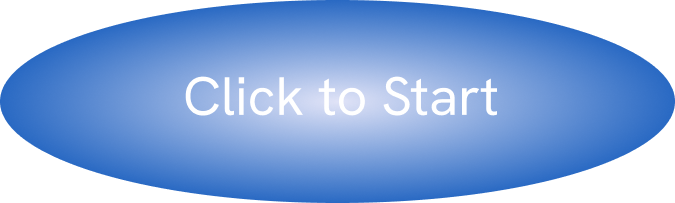
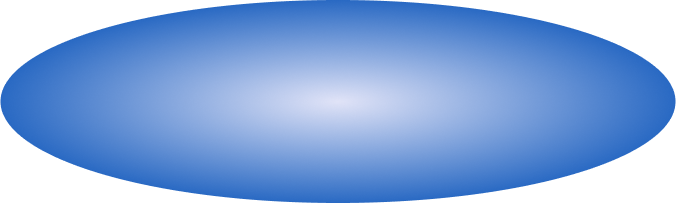
[fix] LoginScreen 화면 디자인 수정

Changed region(s): [[0.28, 0.3547, 0.7467, 0.5911], [0.9956, 0.4138, 1.0, 0.5616], [0.2489, 0.4433, 0.28, 0.5025]]

diff --git a/ui/LoginScreen.java b/ui/LoginScreen.java
@@ -12,6 +12,11 @@ public class LoginScreen extends JPanel {
 
     private MainFrame mainFrame;
     private BufferedImage backgroundImage;
+    private BufferedImage inputbackgroundImage;
+    private BufferedImage smallTitleImage;
+    private BufferedImage idinputImage;
+    private BufferedImage passwordinputImgae;
+    private BufferedImage nextbuttonImage;
 
     public LoginScreen(MainFrame mainFrame) {
 
@@ -22,21 +27,26 @@ public class LoginScreen extends JPanel {
 
         // 배경 이미지 로드
         try {
-            backgroundImage = ImageIO.read(getClass().getResource("/images/Login_n.png"));  // 상대 경로로 수정
+            backgroundImage = ImageIO.read(getClass().getResource("/images/Background.png"));  // 상대 경로로 수정
+            inputbackgroundImage = ImageIO.read(getClass().getResource("/images/Input_Background.png"));
+            smallTitleImage = ImageIO.read(getClass().getResource("/images/Small_Title.png"));
+            idinputImage = ImageIO.read(getClass().getResource("/images/Input.png"));
+            passwordinputImgae = ImageIO.read((getClass().getResource("/images/Input.png")));
+            nextbuttonImage = ImageIO.read(getClass().getResource("/images/Next_Button.png"));
         } catch (IOException e) {
             e.printStackTrace();
         }
 
         // 입력 필드 및 버튼 설정
-        JLabel loginLabel = createLabel("로그인", 570, 150, 44, Color.WHITE);
-        JLabel idLabel = createLabel("아이디", 366, 300, 44, new Color(52, 71, 200));
-        JTextField idField = createTextField(560, 305);
-        JLabel pwLabel = createLabel("비밀번호", 323, 405, 44, new Color(52, 71, 200));
-        JPasswordField pwField = createPasswordField(560, 415);
+        JLabel loginLabel = createLabel("로그인", 645, 235, 50, Color.WHITE);
+        JLabel idLabel = createLabel("아이디", 482, 395, 35, new Color(41, 105, 195));
+        JTextField idField = createTextField(620, 395);
+        JLabel pwLabel = createLabel("비밀번호", 450, 517, 35, new Color(41, 105, 195));
+        JPasswordField pwField = createPasswordField(620, 517);
 
-        JButton JoButton = createButton("아직 회원이 아니신가요?", 470, 580, 30, Color.WHITE);
-        JButton loginButton = createButton("▶", 775, 450, 55, new Color(52, 71, 200));
-        loginButton.setBounds(955, 455, 55, 55);
+        JButton JoButton = createButton("아직 회원이 아니신가요?", 569, 630, 30, new Color(160, 186, 223));
+        JButton loginButton = createButton("다음", 1060, 780, 30, Color.WHITE);
+        loginButton.setBounds(1060, 780, 182, 81);
 
         // 로그인 버튼 클릭 이벤트
         loginButton.addActionListener(new ActionListener() {
@@ -82,6 +92,21 @@ public class LoginScreen extends JPanel {
         if (backgroundImage != null) {
             g.drawImage(backgroundImage, 0, 0, getWidth(), getHeight(), this);
         }
+        if (inputbackgroundImage != null) {
+            g.drawImage(inputbackgroundImage, 297, 156, 846, 589, this);
+        }
+        if(smallTitleImage != null) {
+            g.drawImage(smallTitleImage, 433, 204, 575, 125, this);
+        }
+        if (idinputImage != null) {
+            g.drawImage(idinputImage, 603, 382, 384, 77, this);
+        }
+        if (passwordinputImgae != null) {
+            g.drawImage(passwordinputImgae, 603, 505, 384, 77, this);
+        }
+        if (nextbuttonImage != null) {
+            g.drawImage(nextbuttonImage, 1061, 784, 182, 81, this);
+        }
     }
 
     private JLabel createLabel(String text, int x, int y, int fontSize, Color color) {
@@ -96,7 +121,7 @@ public class LoginScreen extends JPanel {
         JTextField textField = new JTextField();
         textField.setBounds(x, y, 280, 45);
         textField.setOpaque(false);
-        textField.setForeground(new Color(52, 71, 200));
+        textField.setForeground(new Color(41, 105, 195));
         textField.setFont(new Font("SansSerif", Font.BOLD, 25));
         textField.setBorder(null);
         return textField;
@@ -106,7 +131,7 @@ public class LoginScreen extends JPanel {
         JPasswordField passwordField = new JPasswordField();
         passwordField.setBounds(x, y, 280, 45);
         passwordField.setOpaque(false);
-        passwordField.setForeground(new Color(52, 71, 200));
+        passwordField.setForeground(new Color(41, 105, 195));
         passwordField.setFont(new Font("SansSerif", Font.PLAIN, 25));
         passwordField.setBorder(null);
         return passwordField;

diff --git a/ui/StartScreen.java b/ui/StartScreen.java
@@ -34,6 +34,13 @@ public class StartScreen extends JPanel {
         titleLabel.setBounds(100, 250, 1250, 261);
         add(titleLabel);
 
+        // 시작 버튼 텍스트 설정
+        JLabel startbutton = new JLabel("Click to Start", JLabel.CENTER);
+        startbutton.setFont(new Font("Host Grotesk", Font.BOLD, 44));
+        startbutton.setForeground(Color.white);
+        startbutton.setBounds(110, 580, 1250, 261);
+        add(startbutton);
+
         // 타자연습 레이블 설정
         JLabel minLabel = new JLabel("타자연습", JLabel.CENTER);
         try {
